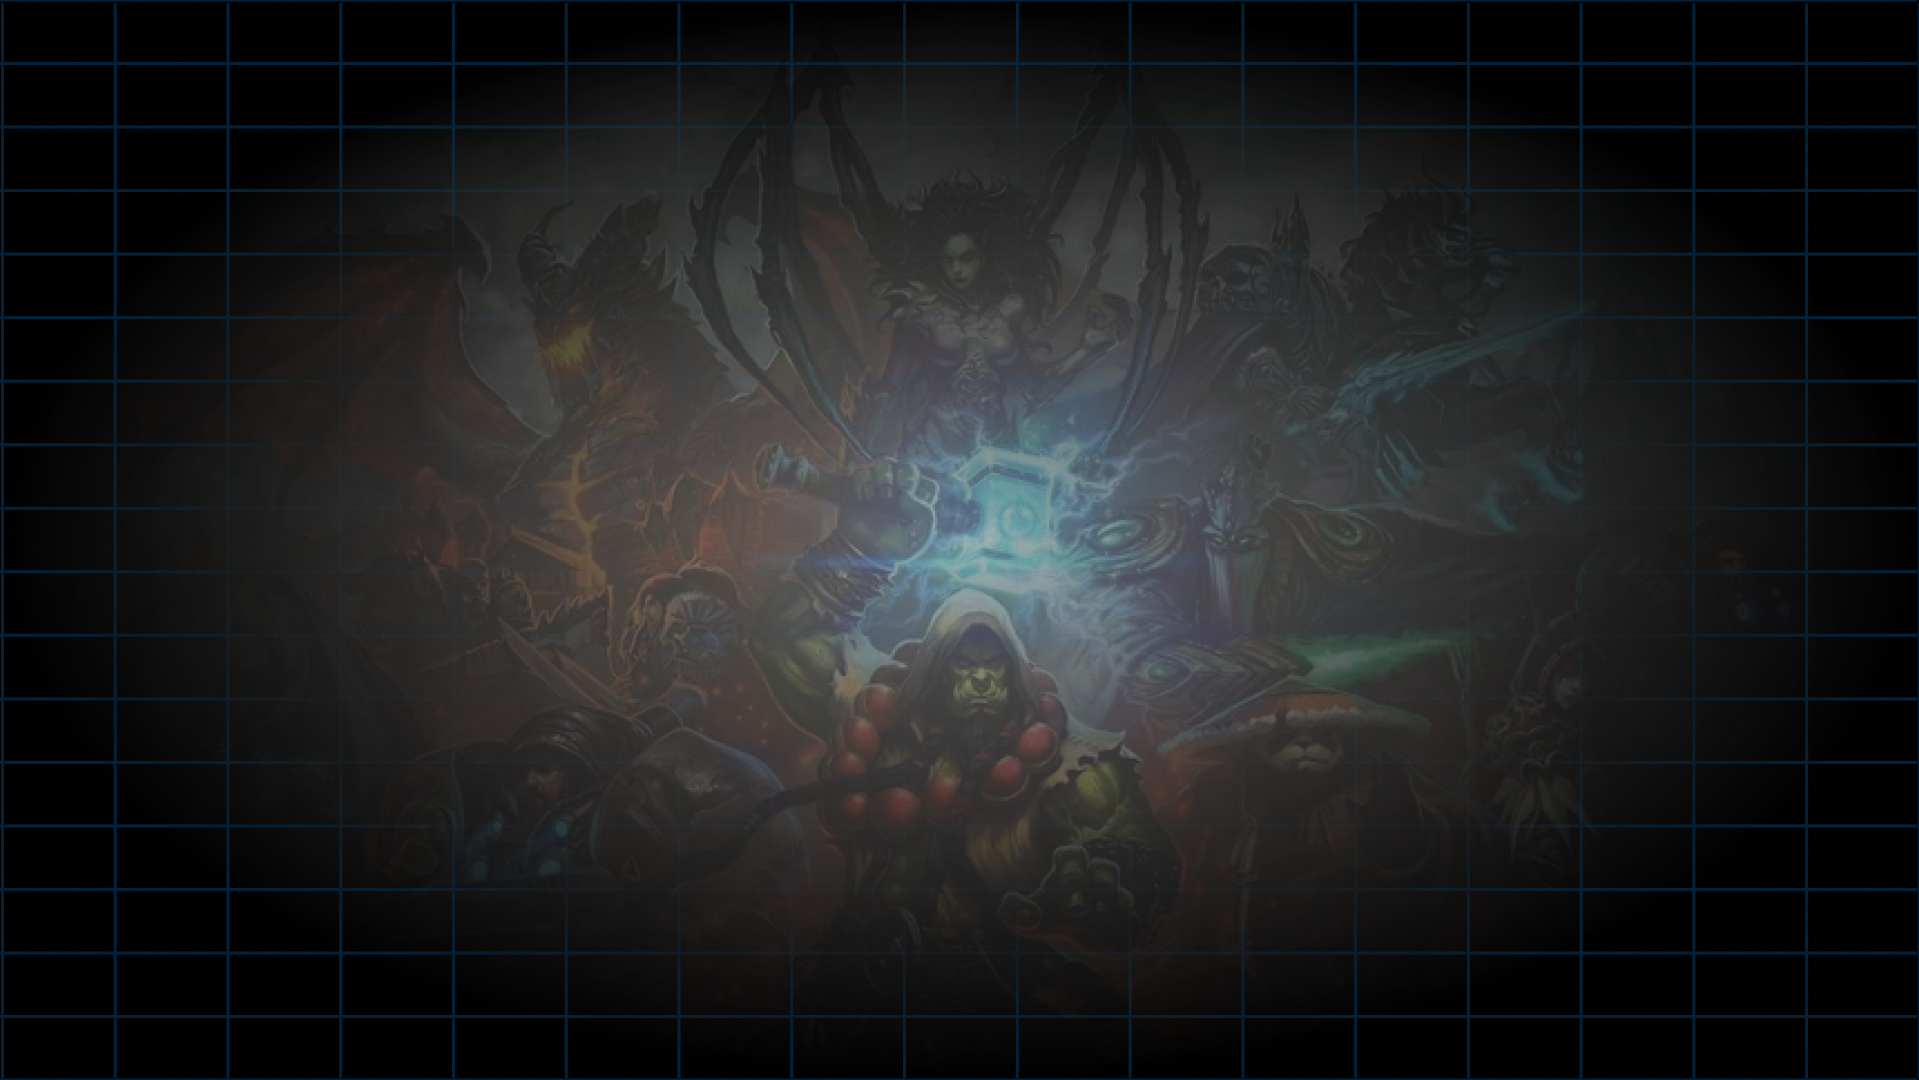
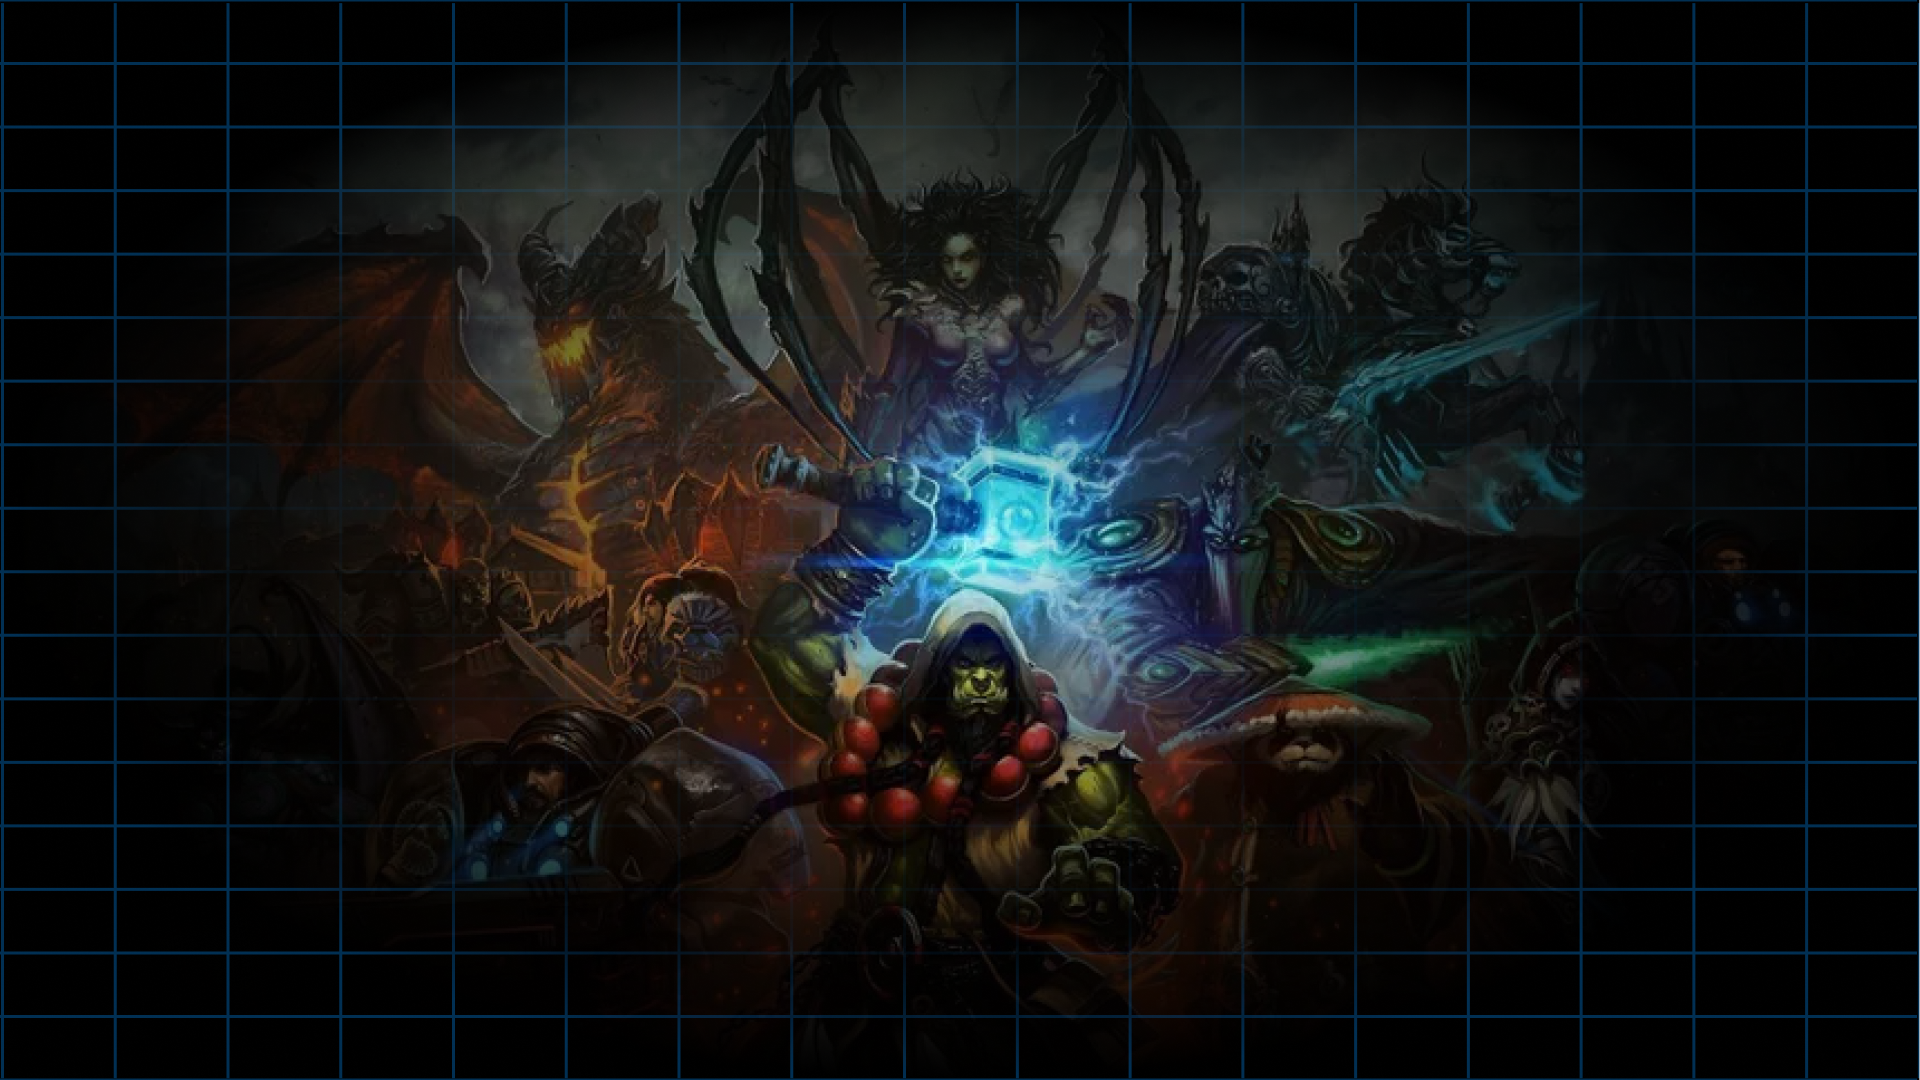
Add auxiliary 'removeVersion' function; add WoW page; add useQuery; add styling to Home

Changed region(s): [[0.123, 0.1833, 0.8609, 0.8861]]

diff --git a/src/pages/WoW.tsx b/src/pages/WoW.tsx
@@ -1,0 +1,81 @@
+import { useSession } from "next-auth/react"
+import { useQuery } from "@tanstack/react-query"
+import { useState } from "react"
+
+type SortWoW = {
+    (a: string, b: string): string,
+    (a: number, b: number): number
+
+}
+
+const WoW = () => {
+
+    const [select, setSelect] = useState("")
+    const { data } = useSession()
+    const url = `https://us.api.blizzard.com/profile/user/wow?namespace=profile-us&locale=en_US`
+
+    const getWoWdata = fetch(url, {
+        headers: {
+            "Authorization": `Bearer ${data?.accessToken}`
+        }
+    }).then(async r => await r.json()).then(async r => {
+        console.log("Fetched")
+        return await r
+    })
+
+    const { data: wowData, isLoading } = useQuery({
+        queryKey: ["characters"],
+        queryFn: async () => await getWoWdata
+    })
+
+
+    const sortWoW = (a: any, b: any) => {
+        if (typeof a == "string" && typeof b == "string") {
+            if (a > b)
+                return 1
+            if (a < b)
+                return -1
+            return 0
+        }
+        if (typeof a == "number" && typeof b == "number")
+            return a - b
+    }
+
+    const WoWChars = !isLoading ? <>{
+        wowData.wow_accounts[0].characters.map(({
+            name,
+            level,
+            realm: { name: realm },
+            playable_class: { name: playerClass },
+            playable_race: { name: playerRace },
+            gender: { name: g },
+            faction: { name: f }
+        }: {
+            name: string,
+            level: number
+            realm: { name: string },
+            playable_class: { name: string },
+            playable_race: { name: string },
+            gender: { name: "Male" | "Female" },
+            faction: { name: "Horde" | "Alliance" }
+
+        },
+            i: number) => {
+            return <div key={i}>
+                <div>Name: {name}</div>
+                <div>Level: {level}</div>
+                <div>Player Race: {playerRace}</div>
+                <div>Gender: {g}</div>
+                <div>Faction: {f}</div>
+                <div>Realm: {realm}</div>
+                <div>Player Class: {playerClass}</div>
+            </div>
+        })
+    }</> : <>Loading...</>
+
+    return <section>WoW
+        {WoWChars}
+    </section>
+}
+
+export default WoW

diff --git a/src/styles/Home/index.module.scss b/src/styles/Home/index.module.scss
@@ -3,10 +3,9 @@
 
 .section{
     @include mixins.pageTemplate();
+    position: relative;
 
-    background-image:url("/BattlenetBackground.png");
-    background-size: cover; 
-    background-position: 50%;
+
     color: white;
 
     display: flex;
@@ -18,7 +17,36 @@
         flex-direction: column;
     }
 
+    &_color{
+        position: absolute;
+        width: 100%;
+        height: 100%;
+        
+        background-image: url("/BattlenetBackground.png");
+        background-size: cover; 
+        background-position: 50%;
+
+        &::before{
+            content:"";
+            width: 100%;
+            height: 100%;
+            position: absolute;
+            background-color: #000;
+            mix-blend-mode: saturation;
+        }
+
+        &::after{
+            content:"";
+            width: 100%;
+            height: 100%;
+            position: absolute;
+            background-color: #226DFF;
+            mix-blend-mode: soft-light;
+        }
+    }
+
     &_container{
+        position: relative;
         display: flex;
         justify-content: center;
         align-items: center;
@@ -66,18 +94,16 @@
     cursor: pointer;
     overflow: hidden;
 
-  
+    
 
    &:hover &_b, &:hover &_f{
-    
         scale:1.1;
-    
    }
-    
+    &:hover &_b{
+        filter:saturate(1);
+    }
 
     &:hover::after{
-        
-
                 background-color: rgba(0,0,0,.3)
             }
     &::after{
@@ -95,6 +121,7 @@
         left: 0;
         width: 100%;
         transition: 1s all ease-out;
+        filter: saturate(0);
 
     }
     &_f{

diff --git a/src/pages/components/Home.tsx b/src/pages/components/Home.tsx
@@ -13,17 +13,20 @@ import WoWFG from "/public/WoWForeground.png"
 
 type Card = {
     backgroundImg: StaticImageData,
-    foregroundImg: StaticImageData
+    foregroundImg: StaticImageData,
+    url: string
 }
 
 const Imgs = [
-    { b: D3BG, f: D3FG },
-    { b: SC2BG, f: SC2FG },
-    { b: WoWBG, f: WoWFG }
+    { b: D3BG, f: D3FG, url: "/D3" },
+    { b: SC2BG, f: SC2FG, url: "/SC2" },
+    { b: WoWBG, f: WoWFG, url: "/WoW" }
 ]
 
-const Card = ({ backgroundImg, foregroundImg }: Card) => {
-    return <div className={styles["card"]}>
+const Card = ({ backgroundImg, foregroundImg, url }: Card) => {
+    const router = useRouter()
+
+    return <div className={styles["card"]} onClick={() => router.push(url)}>
         <MyCustomLoader className={styles["card_b"]} src={backgroundImg}></MyCustomLoader>
         <MyCustomLoader className={styles["card_f"]} src={foregroundImg}></MyCustomLoader>
     </div>
@@ -31,7 +34,7 @@ const Card = ({ backgroundImg, foregroundImg }: Card) => {
 
 const Cards = () => {
     return <>
-        {Imgs.map((v, i) => <Card key={i} backgroundImg={v.b} foregroundImg={v.f}></Card>)}
+        {Imgs.map((v, i) => <Card key={i} backgroundImg={v.b} foregroundImg={v.f} url={v.url}></Card>)}
     </>
 }
 
@@ -48,6 +51,7 @@ const Home = () => {
     const router = useRouter()
 
     return <section className={styles["section"]}>
+        <div className={styles["section_color"]} />
         {status == "unauthenticated" ? <Section_Container router={router} /> : <Cards />}
     </section>
 }

diff --git a/src/pages/_app.tsx b/src/pages/_app.tsx
@@ -4,6 +4,8 @@ import { SessionProvider } from 'next-auth/react'
 import { Kosugi_Maru } from "next/font/google"
 import type { NextPage } from 'next'
 import { ReactElement } from 'react'
+import { QueryClient, QueryClientProvider } from "@tanstack/react-query"
+
 const kosugi = Kosugi_Maru({ subsets: ["latin"], weight: "400" })
 
 type NextPageWithLayout = NextPage & {
@@ -14,13 +16,17 @@ type AppPropsWithLayout = AppProps & {
   Component: NextPageWithLayout
 }
 
+const queryClient = new QueryClient()
+
 export default function App({ Component, pageProps: { session, ...pageProps } }: AppPropsWithLayout) {
 
   const getLayout = Component.getLayout ?? ((page) => page)
 
   return getLayout(<SessionProvider session={session}>
     <main className={kosugi.className}>
-      <Component  {...pageProps} />
+      <QueryClientProvider client={queryClient}>
+        <Component  {...pageProps} />
+      </QueryClientProvider>
     </main>
   </SessionProvider>)
 }

diff --git a/src/pages/index.tsx b/src/pages/index.tsx
@@ -2,6 +2,8 @@ import Home from "./components/Home"
 import Navbar from "./components/Navbar"
 import { useSession, signOut } from "next-auth/react"
 
+
+
 export default function BattleNet() {
 
   const session = useSession()

diff --git a/src/pages/components/login-btn.tsx b/src/pages/components/login-btn.tsx
@@ -1,5 +1,5 @@
 import { useSession, signIn, signOut } from "next-auth/react"
-import WoW from "./WoW"
+import WoW from "../WoW"
 import { useRouter } from "next/router"
 
 export default function Component() {

diff --git a/lib/removeVersion.ts b/lib/removeVersion.ts
@@ -1,0 +1,6 @@
+export default function RV(str:string){
+
+    const newStr = str.replace(/-.*?-/,"-")
+
+    return newStr
+}
